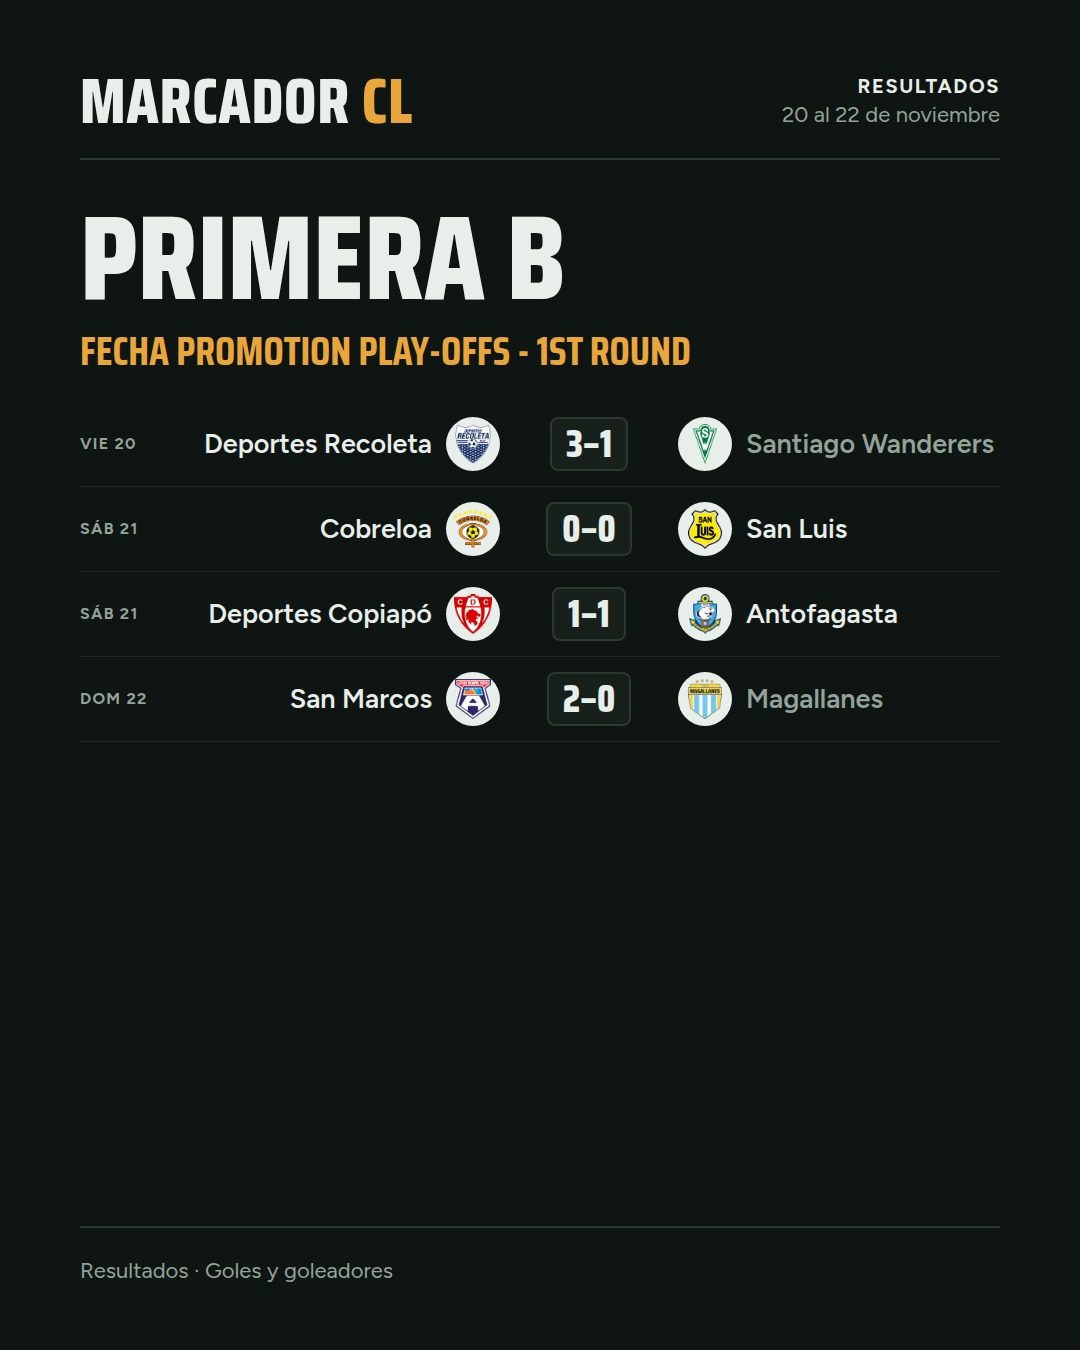
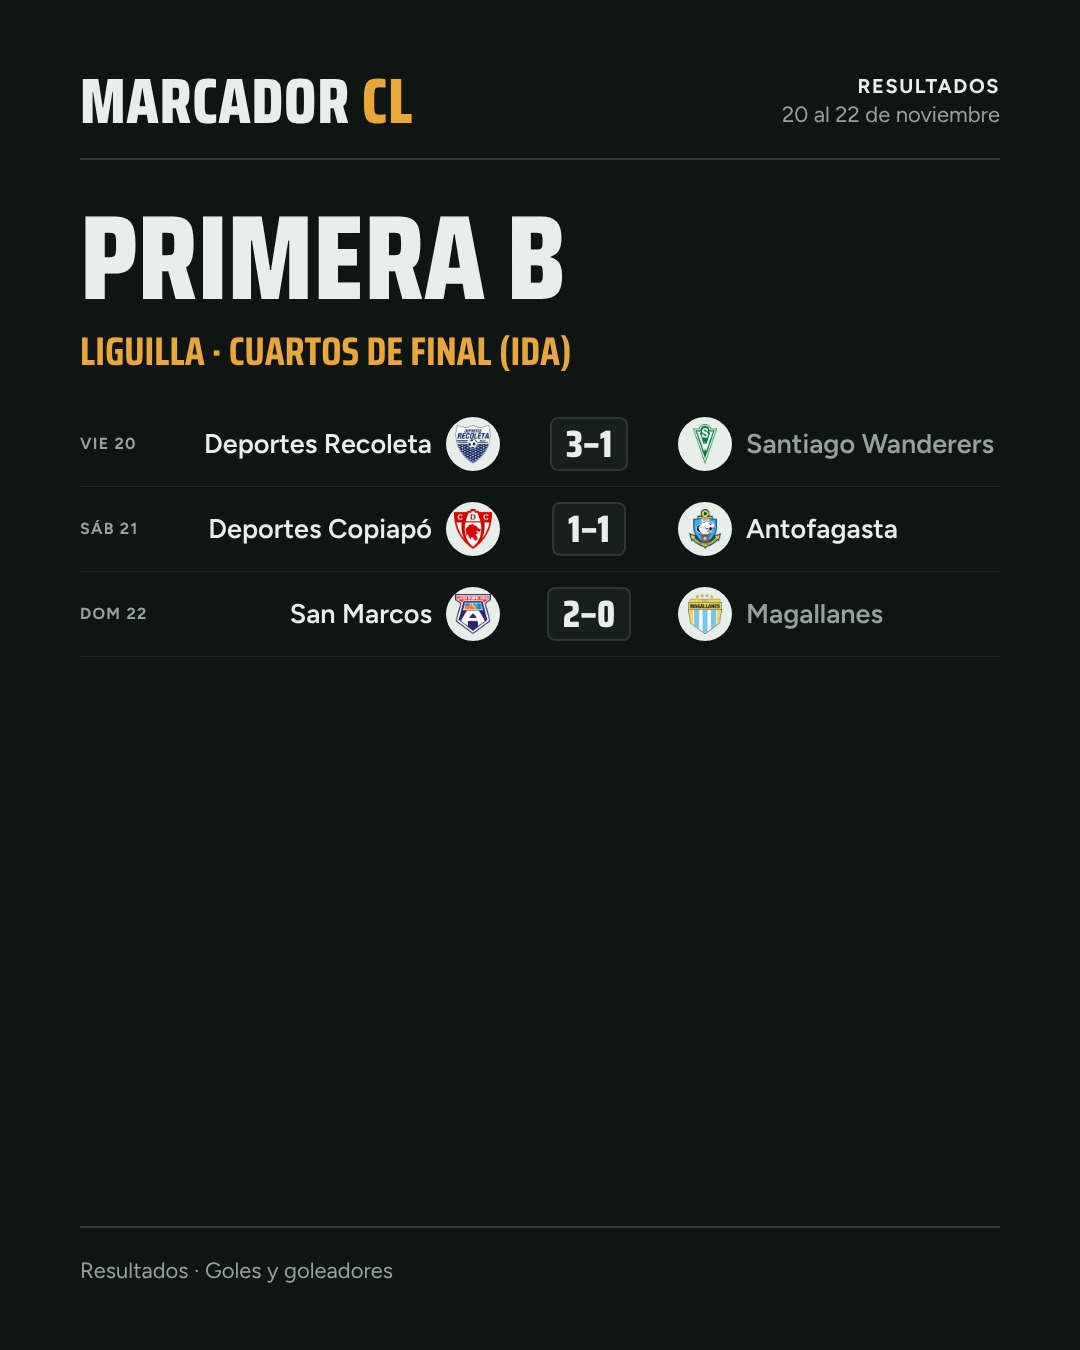
Primera B: resumen de liguilla corregido (sin la final Cobreloa–San Luis, ronda en español); nombres de rondas de FotMob traducidos
Claude-Session: https://claude.ai/code/session_017N4jqvzeFfavdK3br5k5f7

diff --git a/historias/buscar.py b/historias/buscar.py
@@ -651,6 +651,27 @@ def tabla_para_resumen(liga, clave, ahora, espera, max_espera=24 * 60):
     return None, False  # 24 h sin coincidencia: va a aprobación sin tabla (el aviso lo indica)
 
 
+def fase_pb(rnd):
+    """Nombre de la ronda de FotMob en español ("Promotion Play-offs - 1st Round" → "Liguilla · Cuartos de final")."""
+    rnd = str(rnd or "").strip()
+    if not rnd:
+        return ""
+    if rnd.isdigit():
+        return f"Fecha {rnd}"
+    r = rnd.lower()
+    if "play" in r or "promotion" in r or "liguilla" in r:
+        if re.search(r"1st|quarter|cuartos", r):
+            return "Liguilla · Cuartos de final"
+        if re.search(r"2nd|semi", r):
+            return "Liguilla · Semifinal"
+        if re.search(r"3rd|final", r):
+            return "Liguilla · Final"
+        return "Liguilla de Ascenso"
+    if "final" in r:
+        return "Final"
+    return rnd
+
+
 def primera_b_resumen(hoy, ahora, resumenes, pendientes, cola, espera):
     """Resumen de fecha de la Primera B (FotMob): bloque de días seguidos con todos los partidos terminados."""
     partidos = []
@@ -695,7 +716,7 @@ def primera_b_resumen(hoy, ahora, resumenes, pendientes, cola, espera):
         try:
             raw = get(f"https://www.fotmob.com/api/data/matchDetails?matchId={jugados[-1]['id']}")
             rnd = (raw.get("general") or {}).get("matchRound")
-            fase = f"Fecha {rnd}" if rnd else ""
+            fase = fase_pb(rnd)
         except Exception:
             pass
         if fase and f"chi.pb:{fase.lower().replace(' ', '-')}" in resumenes:
